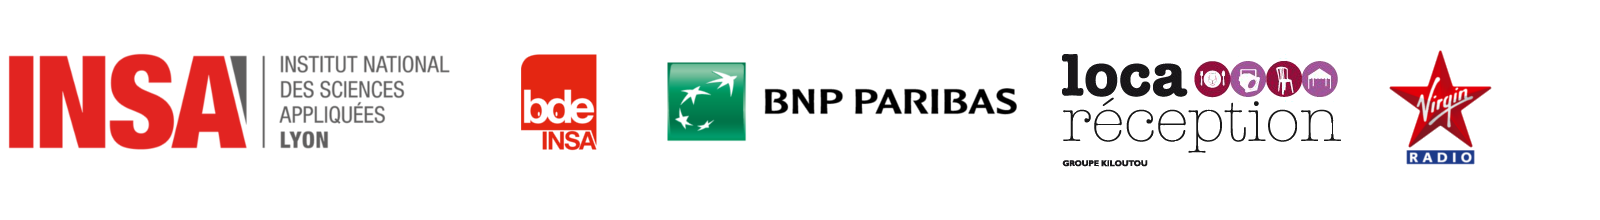
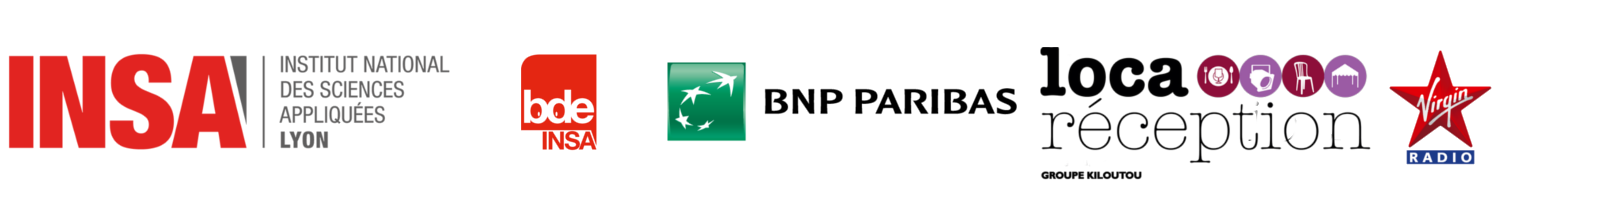
Add sponsors

Changed region(s): [[0.625, 0.2182, 0.875, 0.7091], [0.625, 0.7091, 0.7188, 0.8182]]

diff --git a/app/assets/stylesheets/application.css.scss b/app/assets/stylesheets/application.css.scss
@@ -28,13 +28,14 @@
 
 .logos{
   position: fixed;
-  bottom: 20px;
-  left: 20px;
-  right: 20px;
+  bottom: 0;
+  left: 0;
+  right: 0;
+  padding: 20px;
   z-index: -1;
-  text-align: left;
+  text-align: center;
+  background: rgba(150,150,150,0.1);
   img{
-    float: left;
     height: 125px;
   }
   .bal{
@@ -78,7 +79,7 @@
     width: 100%;
     .tweet{
       clear: both;
-      margin-top: 5%;
+      margin-top: 2%;
       margin-right: 10%;
       margin-left: 10%;
       background: white;
@@ -112,7 +113,7 @@
       }
       &.without-resource{
         height: 30%;
-        margin-top: 15%;
+        margin-top: 5%;
         .content{
           width: 100%;
         }
